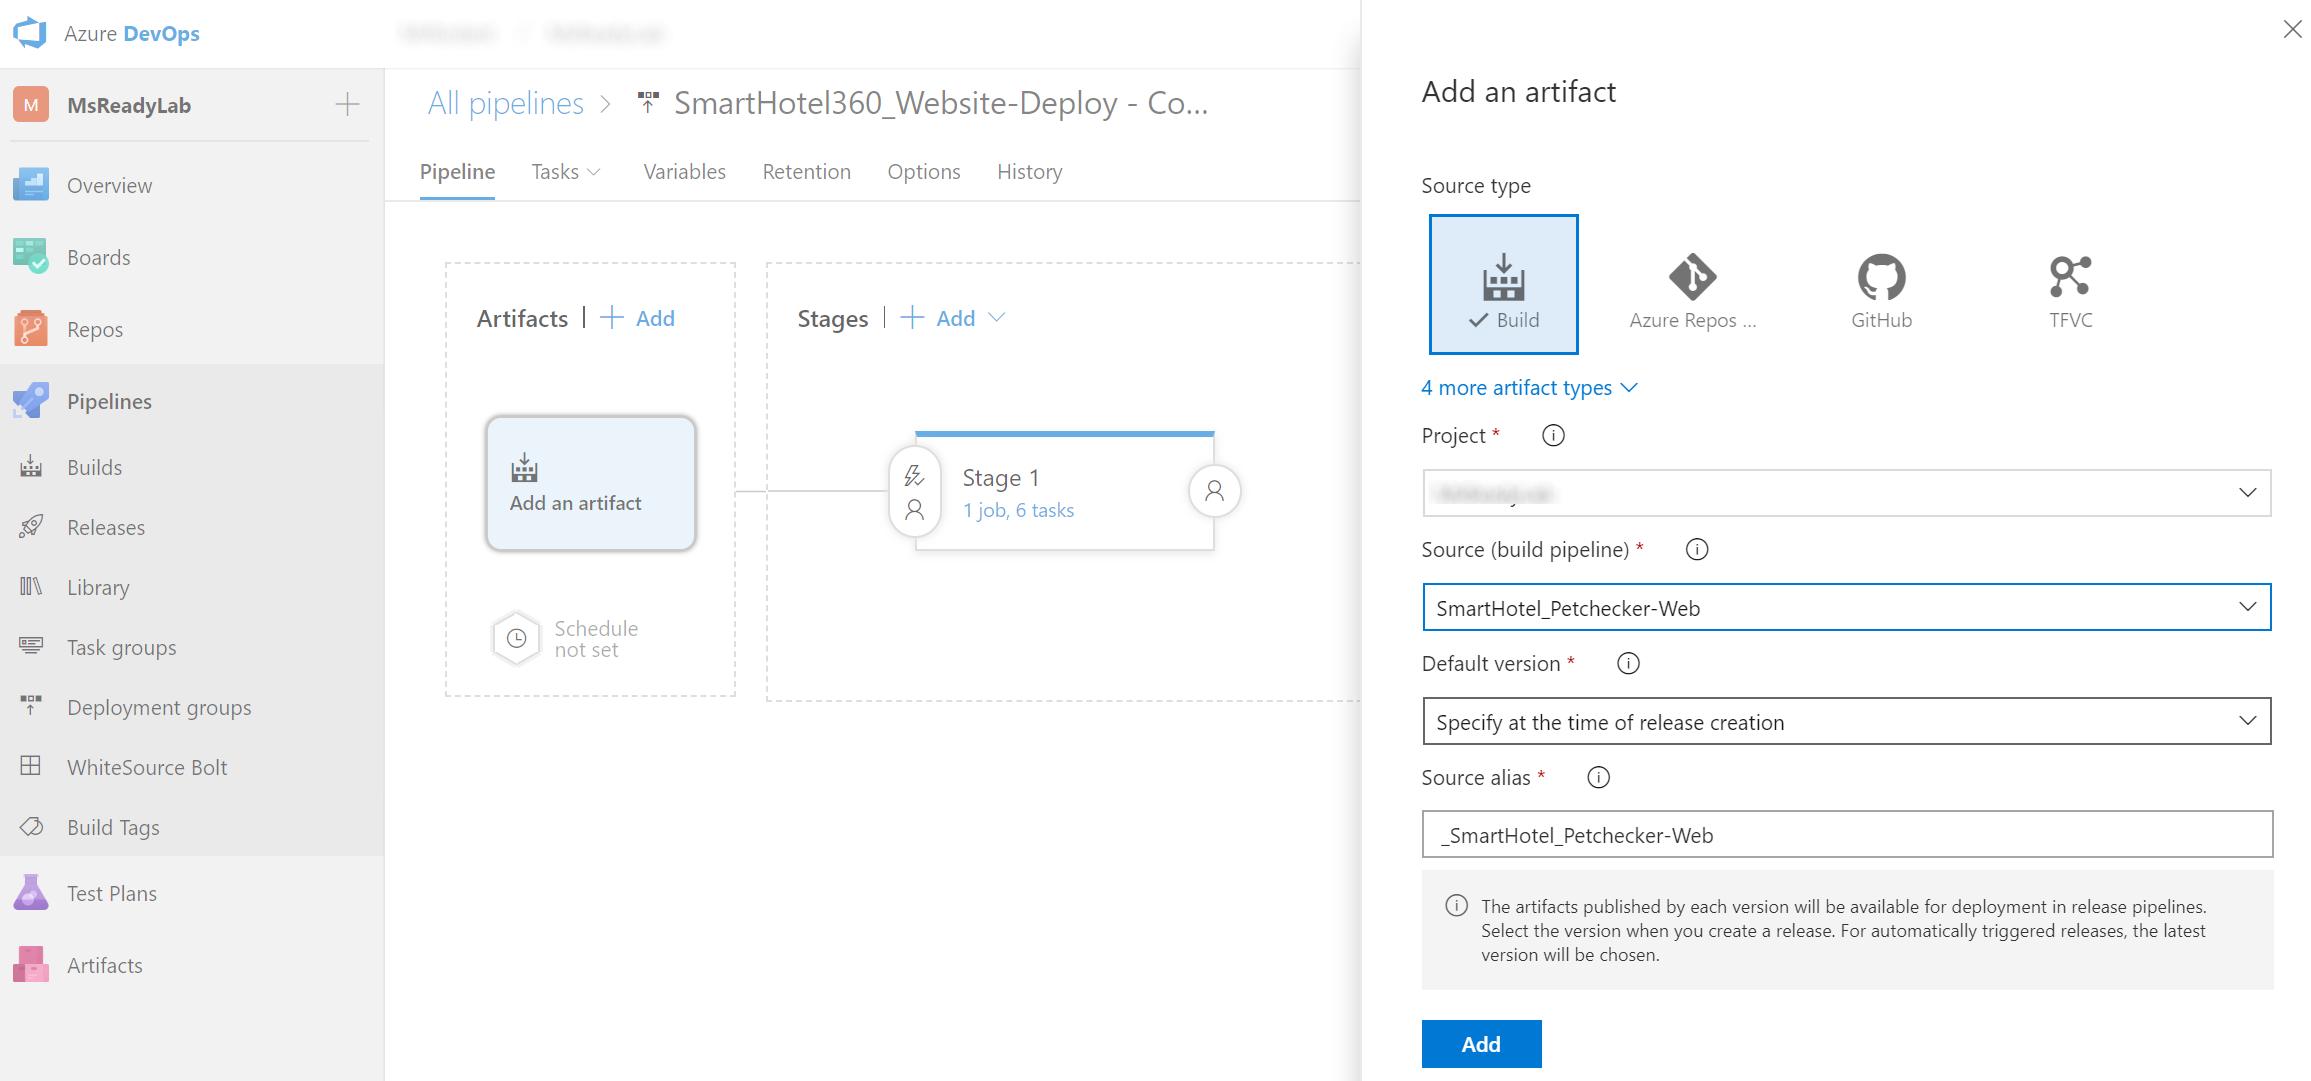
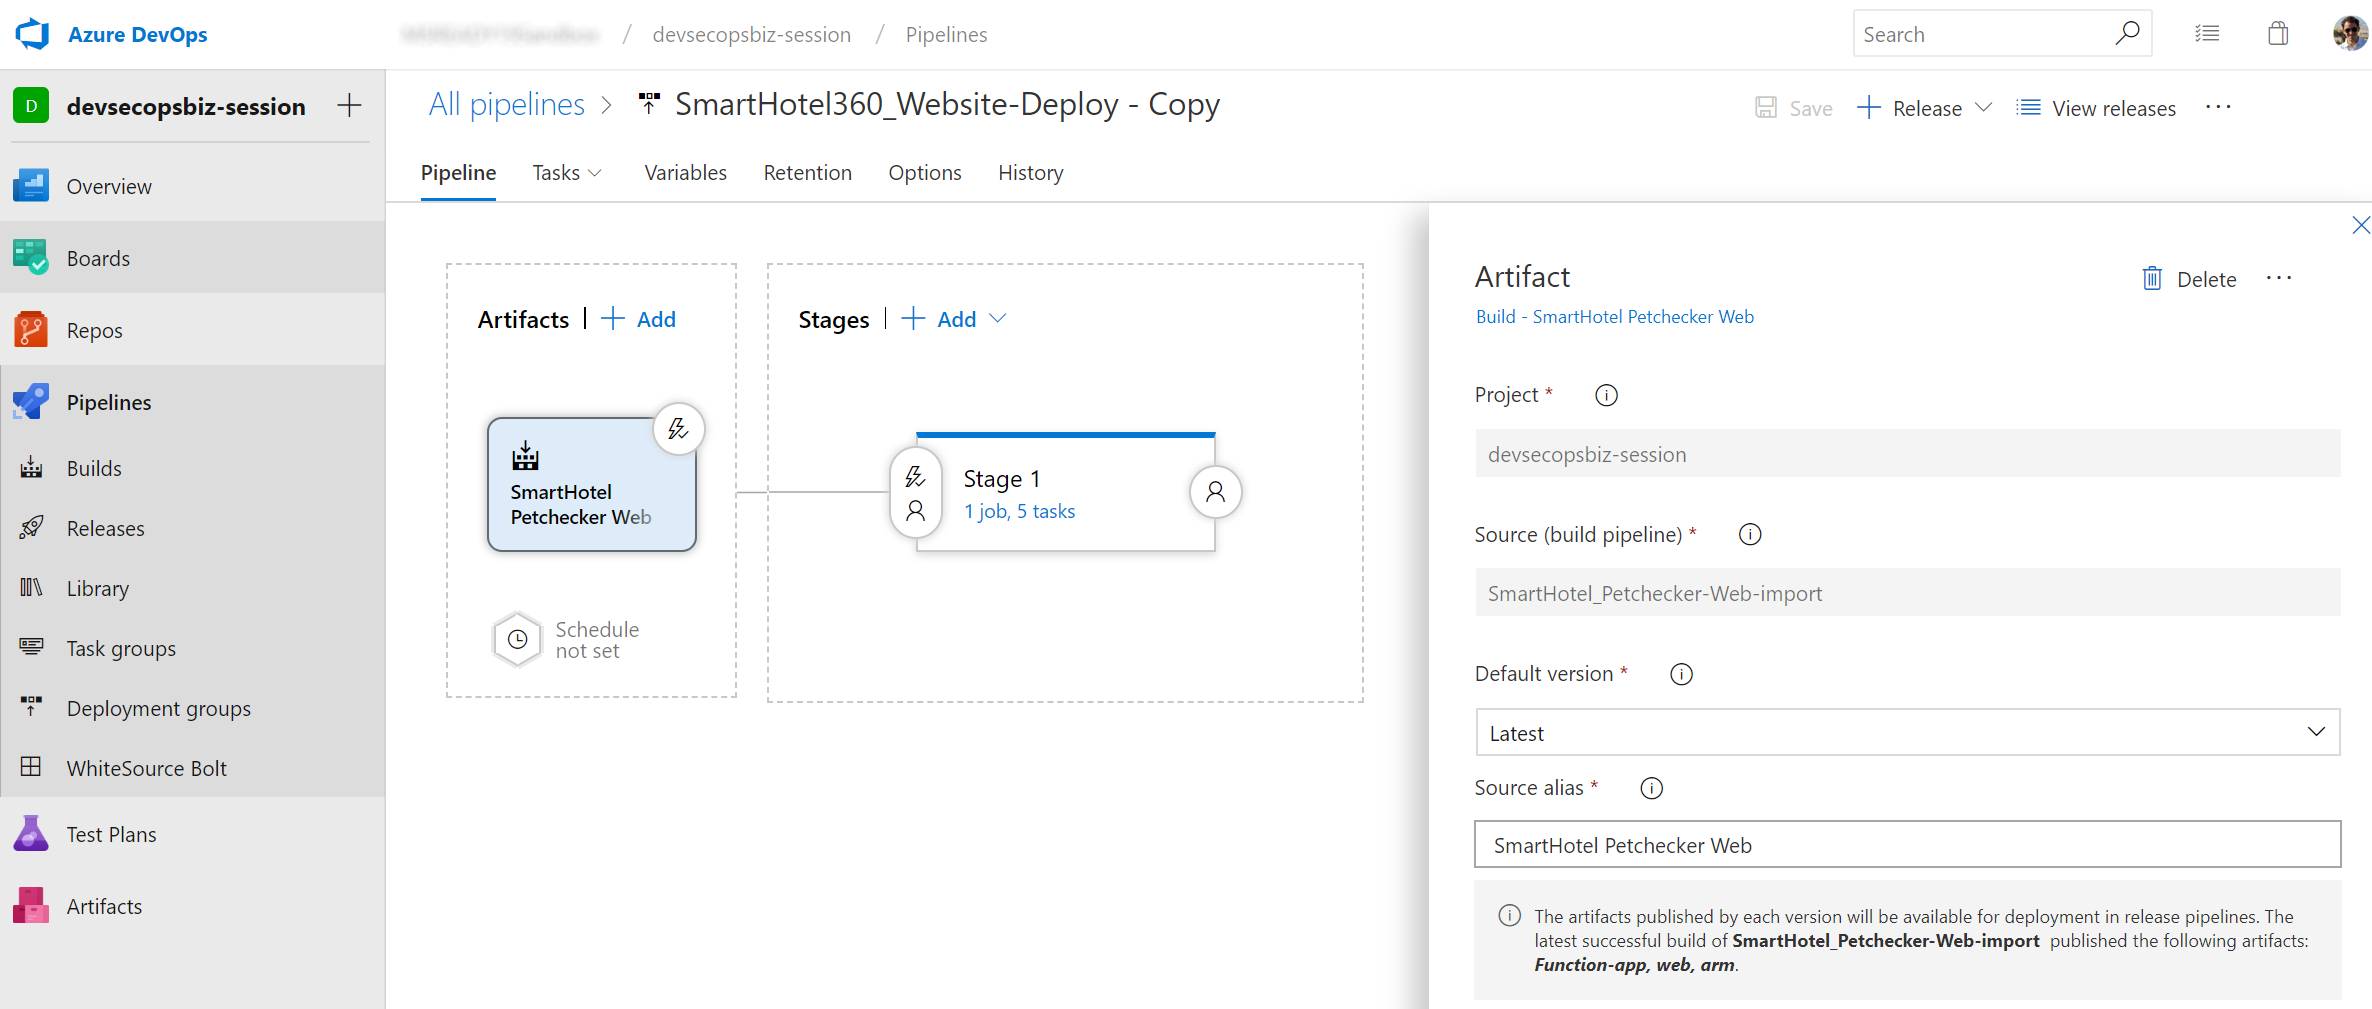
updated artifact source alias

diff --git a/README.md b/README.md
@@ -282,6 +282,8 @@ For the release pipeline we'll be leveraging ARM templates and Azure App Service
 
     10. Now, add the **SmartHotel_Petchecker-Web** build artifact. This will make sure we're using the artifact coming from the build we've created before.
 
+        > Important: set the *Source alias* to `SmartHotel Petchecker Web`
+
         ![](img/AddArtifact.png)
 
     11. To finish, enable the Continuous Deployment trigger
